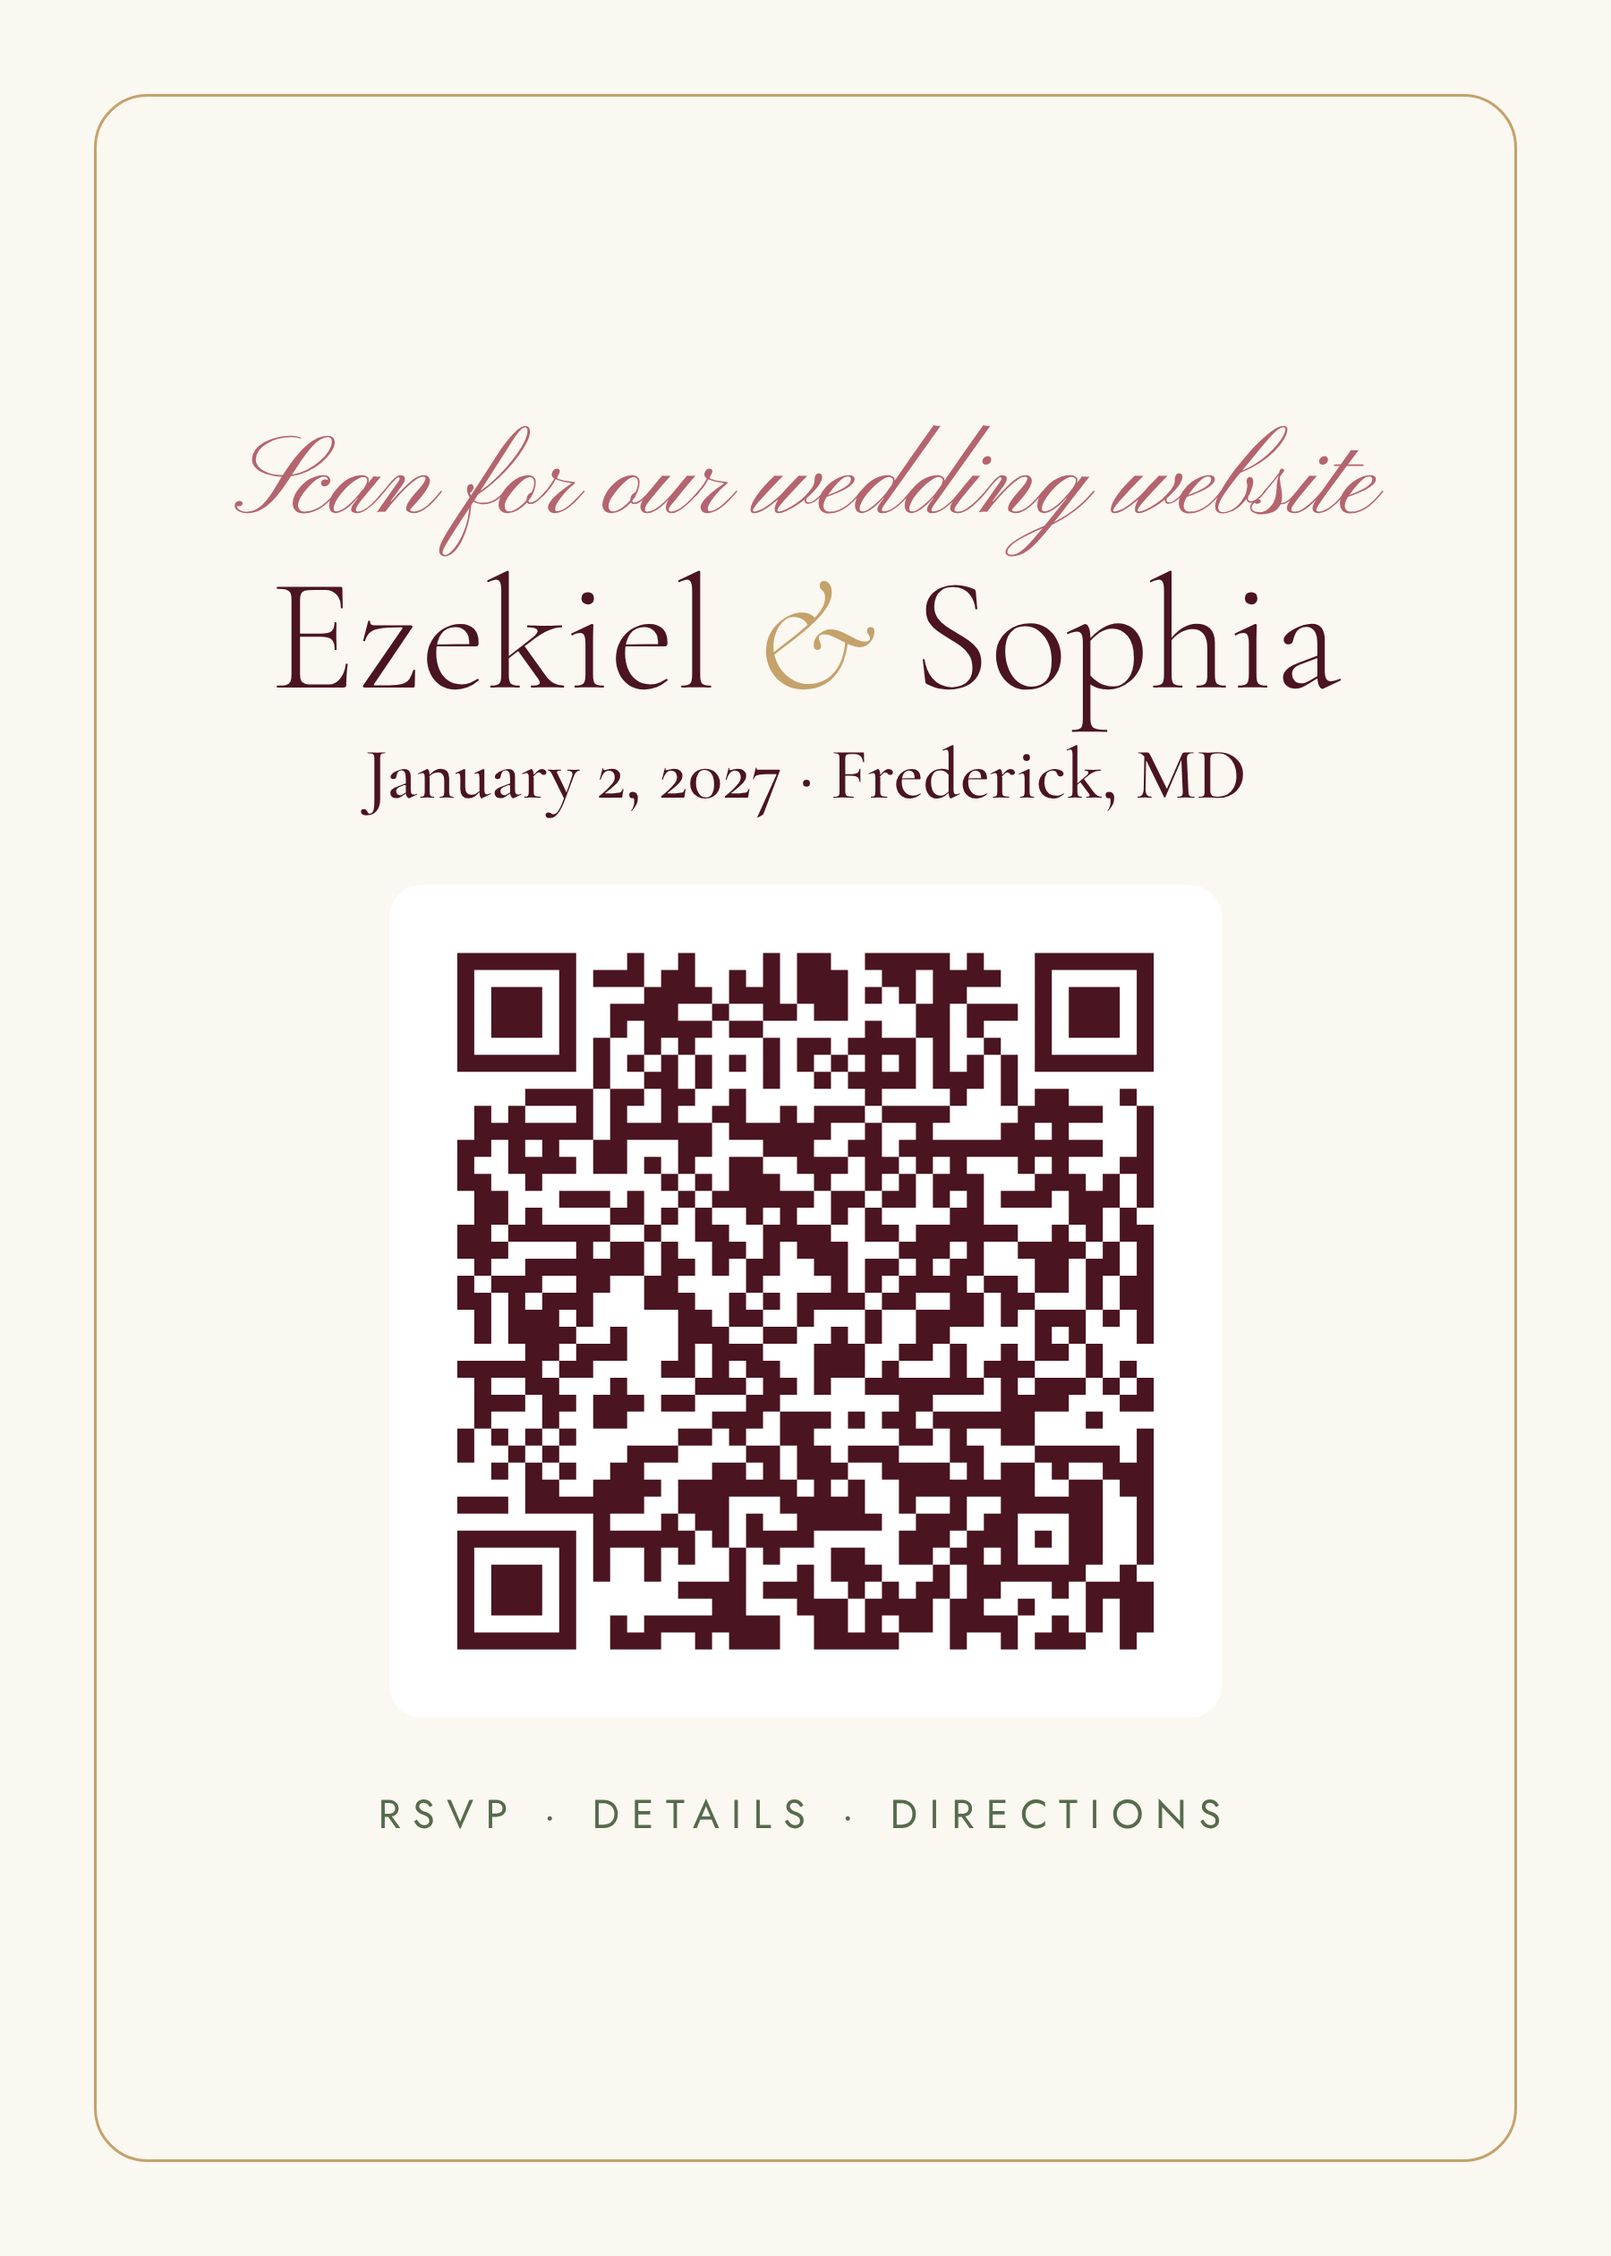
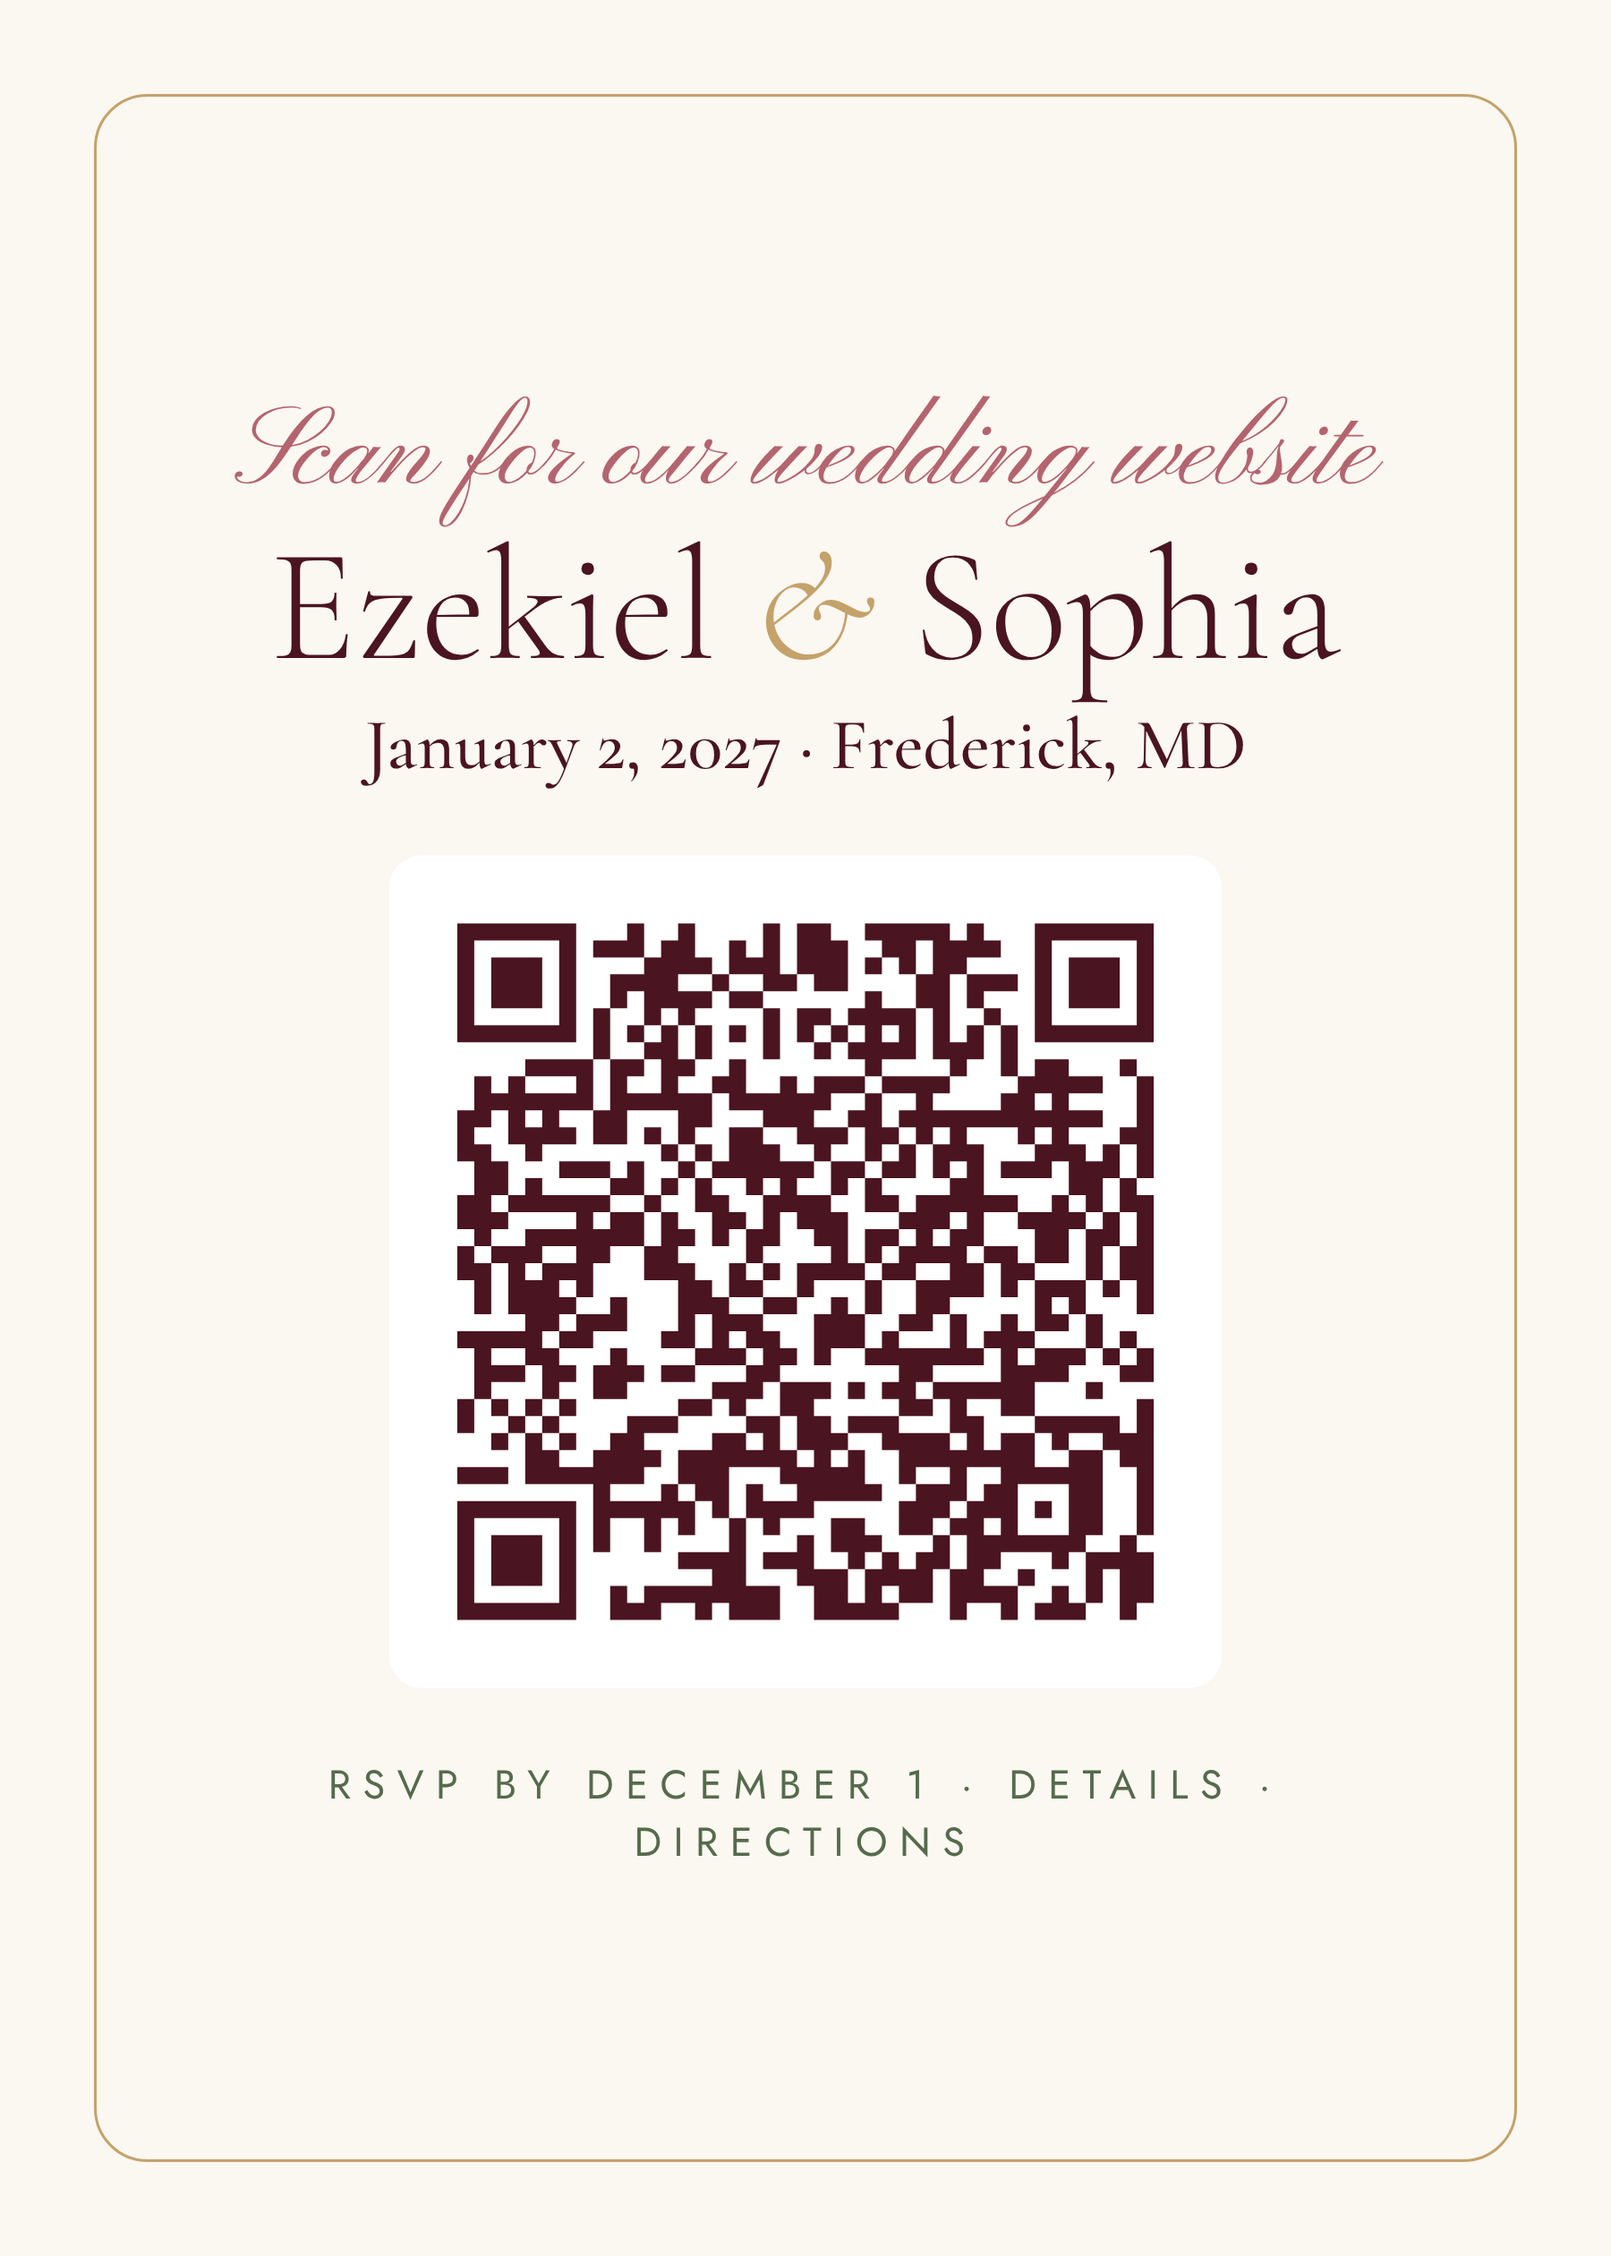
Add RSVP deadline: December 1, 2026
Shown under the hero RSVP button, in the Guest List and RSVP sections,
and on the printable QR card.

Claude-Session: https://claude.ai/code/session_01WzzRDvFJfpSEkLrCqBboKy

diff --git a/wedding-site/index.html b/wedding-site/index.html
@@ -45,6 +45,7 @@
       <p class="hero__date">January 2, 2027 <span class="dot">·</span> 1:00 PM</p>
       <p class="hero__place"><span>All Saints Episcopal Church</span> <span class="dot">·</span> <span>Frederick, MD</span></p>
       <a class="btn btn--ghost hero__rsvp" href="#rsvp">RSVP</a>
+      <p class="hero__deadline">Kindly reply by December 1</p>
     </div>
 
     <a class="hero__scroll" href="#ceremony" aria-label="Scroll to details">
@@ -130,7 +131,7 @@
             <path pathLength="1" d="M232,15 C200,15 185,4 160,10 C145,14 140,24 128,18 C122,15 124,9 129,10"/>
             <path class="flourish__gem" d="M120,9 L125,15 L120,21 L115,15 Z"/>
           </svg>
-          <p class="lead" data-reveal style="--i:3">If your name is on our guest list, we saved a seat for you. You'll RSVP for everyone in your party.</p>
+          <p class="lead" data-reveal style="--i:3">If your name is on our guest list, we saved a seat for you. You'll RSVP for everyone in your party. Please reply by December 1.</p>
           <a class="btn" href="#rsvp" data-reveal style="--i:4">RSVP now</a>
         </div>
       </div>
@@ -164,7 +165,7 @@
             <path pathLength="1" d="M232,15 C200,15 185,4 160,10 C145,14 140,24 128,18 C122,15 124,9 129,10"/>
             <path class="flourish__gem" d="M120,9 L125,15 L120,21 L115,15 Z"/>
           </svg>
-        <p class="lead" data-reveal style="--i:3">Find your name to let us know if you can make it.</p>
+        <p class="lead" data-reveal style="--i:3">Find your name to let us know if you can make it.<br><strong class="deadline">Please RSVP by Tuesday, December 1, 2026.</strong></p>
 
         <div class="rsvp" data-reveal style="--i:4">
           <p class="rsvp__test" id="rsvp-test" hidden>Test mode: Sophia gets a preview email and nothing is saved.</p>
@@ -174,7 +175,7 @@
               <label class="field__label" for="rsvp-search">Your name</label>
               <input class="field" id="rsvp-search" type="text" autocomplete="off" autocapitalize="words" spellcheck="false"
                      placeholder="Start typing your first name" aria-describedby="rsvp-find-help" aria-controls="rsvp-matches">
-              <p class="rsvp__help" id="rsvp-find-help">You'll RSVP for everyone in your party.</p>
+              <p class="rsvp__help" id="rsvp-find-help">You'll RSVP for everyone in your party. Please reply by December 1.</p>
               <ul class="rsvp__matches" id="rsvp-matches" aria-live="polite"></ul>
               <p class="rsvp__nomatch" id="rsvp-nomatch" hidden>
                 We couldn't find that name on our guest list. Check the spelling, or email us at

diff --git a/wedding-site/styles.css b/wedding-site/styles.css
@@ -250,6 +250,7 @@ a:hover { color: var(--burgundy-dark); }
 .hero__content > :nth-child(3) { animation-delay: .75s; }
 .hero__content > :nth-child(4) { animation-delay: .95s; }
 .hero__content > :nth-child(5) { animation-delay: 1.15s; }
+.hero__content > :nth-child(6) { animation-delay: 1.3s; }
 
 @keyframes rise {
   from { opacity: 0; transform: translateY(22px); filter: blur(6px); }
@@ -546,6 +547,14 @@ a:hover { color: var(--burgundy-dark); }
 }
 .btn--ghost:hover { background: rgba(255, 255, 255, .22); }
 .hero__rsvp { margin-top: 1.5rem; }
+.hero__deadline {
+  margin: .7rem 0 0;
+  font-size: .78rem;
+  letter-spacing: .16em;
+  text-transform: uppercase;
+  color: rgba(255, 255, 255, .8);
+}
+.deadline { display: inline-block; margin-top: .4rem; font-weight: 500; color: var(--burgundy); }
 
 .btn--block { display: block; width: 100%; text-align: center; border: 0; cursor: pointer; font-family: var(--font-body); }
 .btn[disabled] { opacity: .6; cursor: progress; transform: none; }
